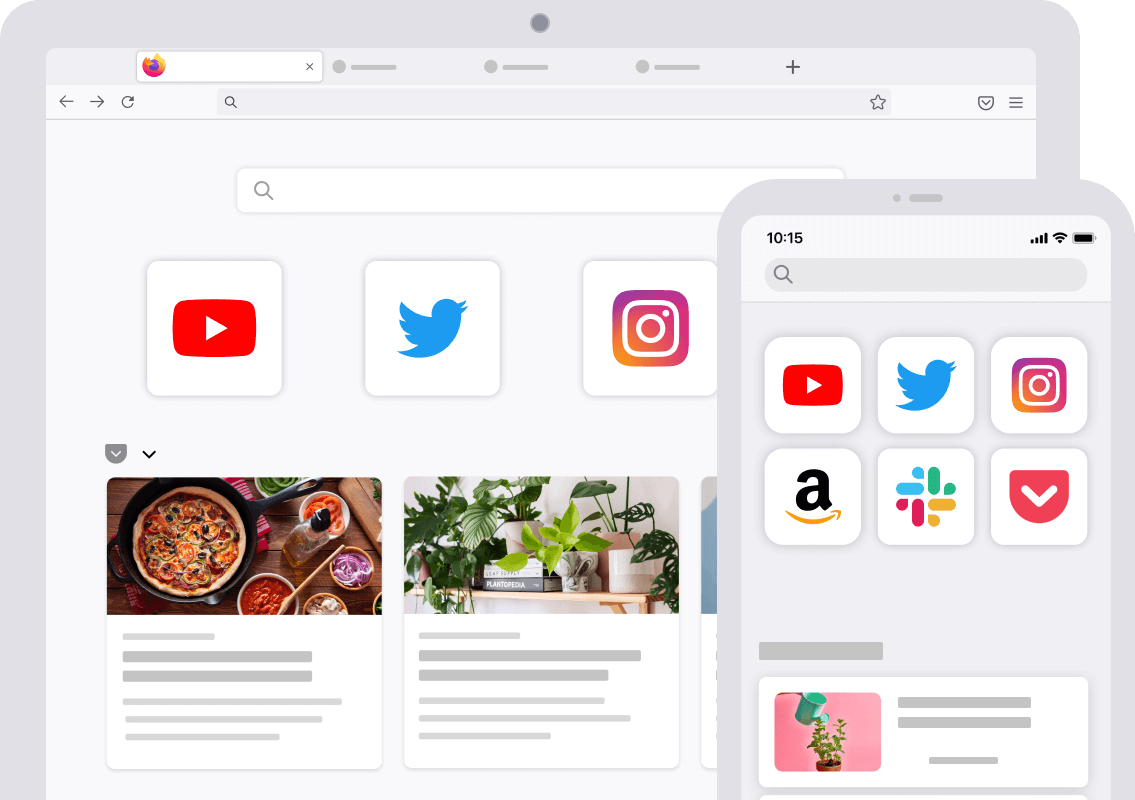
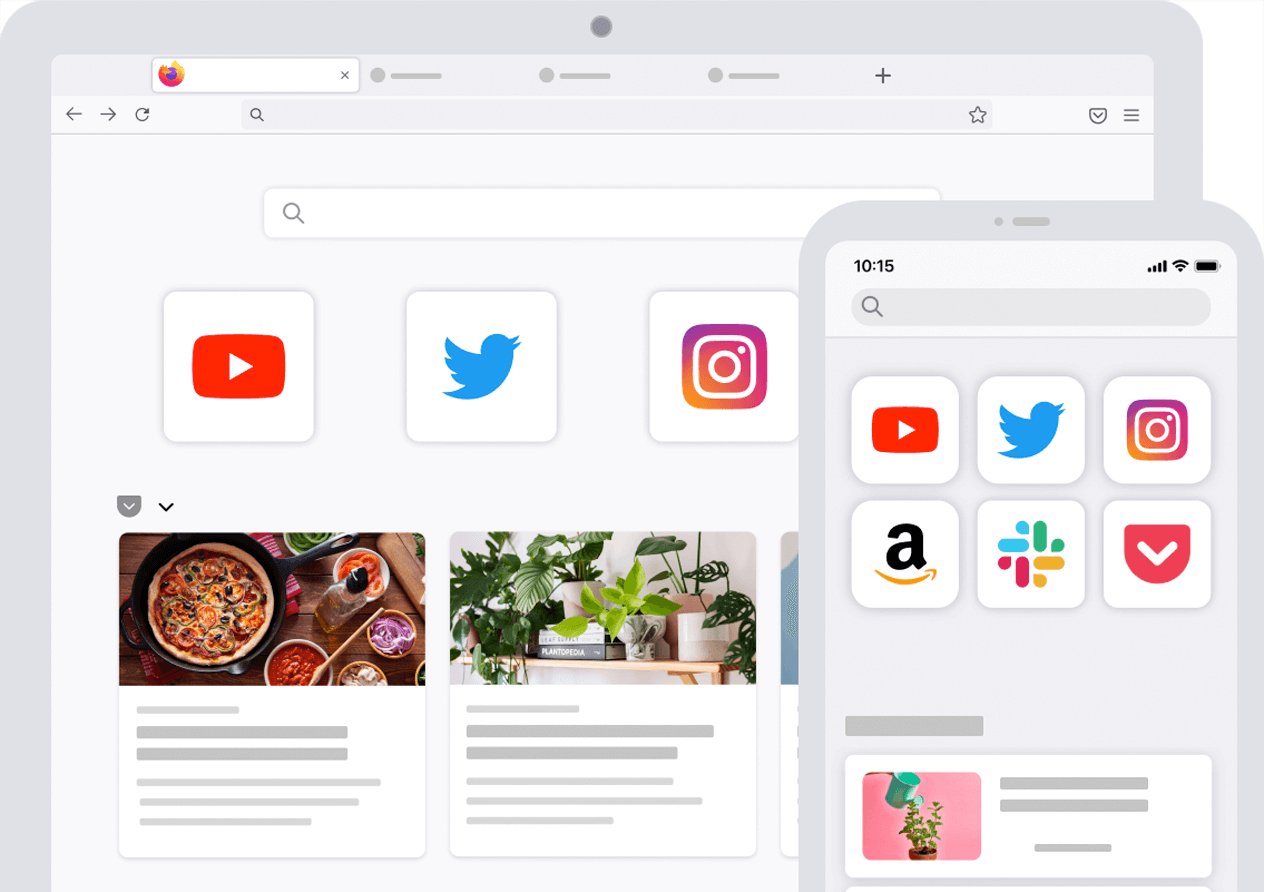
optimize images and PR edits

diff --git a/bedrock/firefox/templates/firefox/products/index.html b/bedrock/firefox/templates/firefox/products/index.html
@@ -70,7 +70,7 @@
 
     <div class="c-landing-grid-item">
       {% if switch("browser-mr2-promo") %}
-         {{ high_res_img('img/firefox/products/browsers.jpg', {'alt': '', 'class': 'c-landing-grid-img', 'width': '316', 'height': '223'}) }}
+         {{ high_res_img('img/firefox/products/browsers-MR2.png', {'alt': '', 'class': 'c-landing-grid-img', 'width': '316', 'height': '223'}) }}
       {% else %}
         {{ high_res_img('img/firefox/products/browsers.jpg', {'alt': '', 'class': 'c-landing-grid-img', 'width': '316', 'height': '223'}) }}
       {% endif %}

diff --git a/bedrock/firefox/templates/firefox/new/desktop/download.html b/bedrock/firefox/templates/firefox/new/desktop/download.html
@@ -115,7 +115,7 @@
             {{ picture('color-ways', 64, 64) }}
             <h3 class="mzp-u-title-xs">Choose your color</h3>
             <p>Personalize your experience with new colorways.</p>
-          {%else%}
+          {% else %}
             {{ picture('dark-mode', 64, 64) }}
             <h3 class="mzp-u-title-xs">Expanded Dark Mode</h3>
             <p>Take it easy on your eyes every time you go online.</p>
